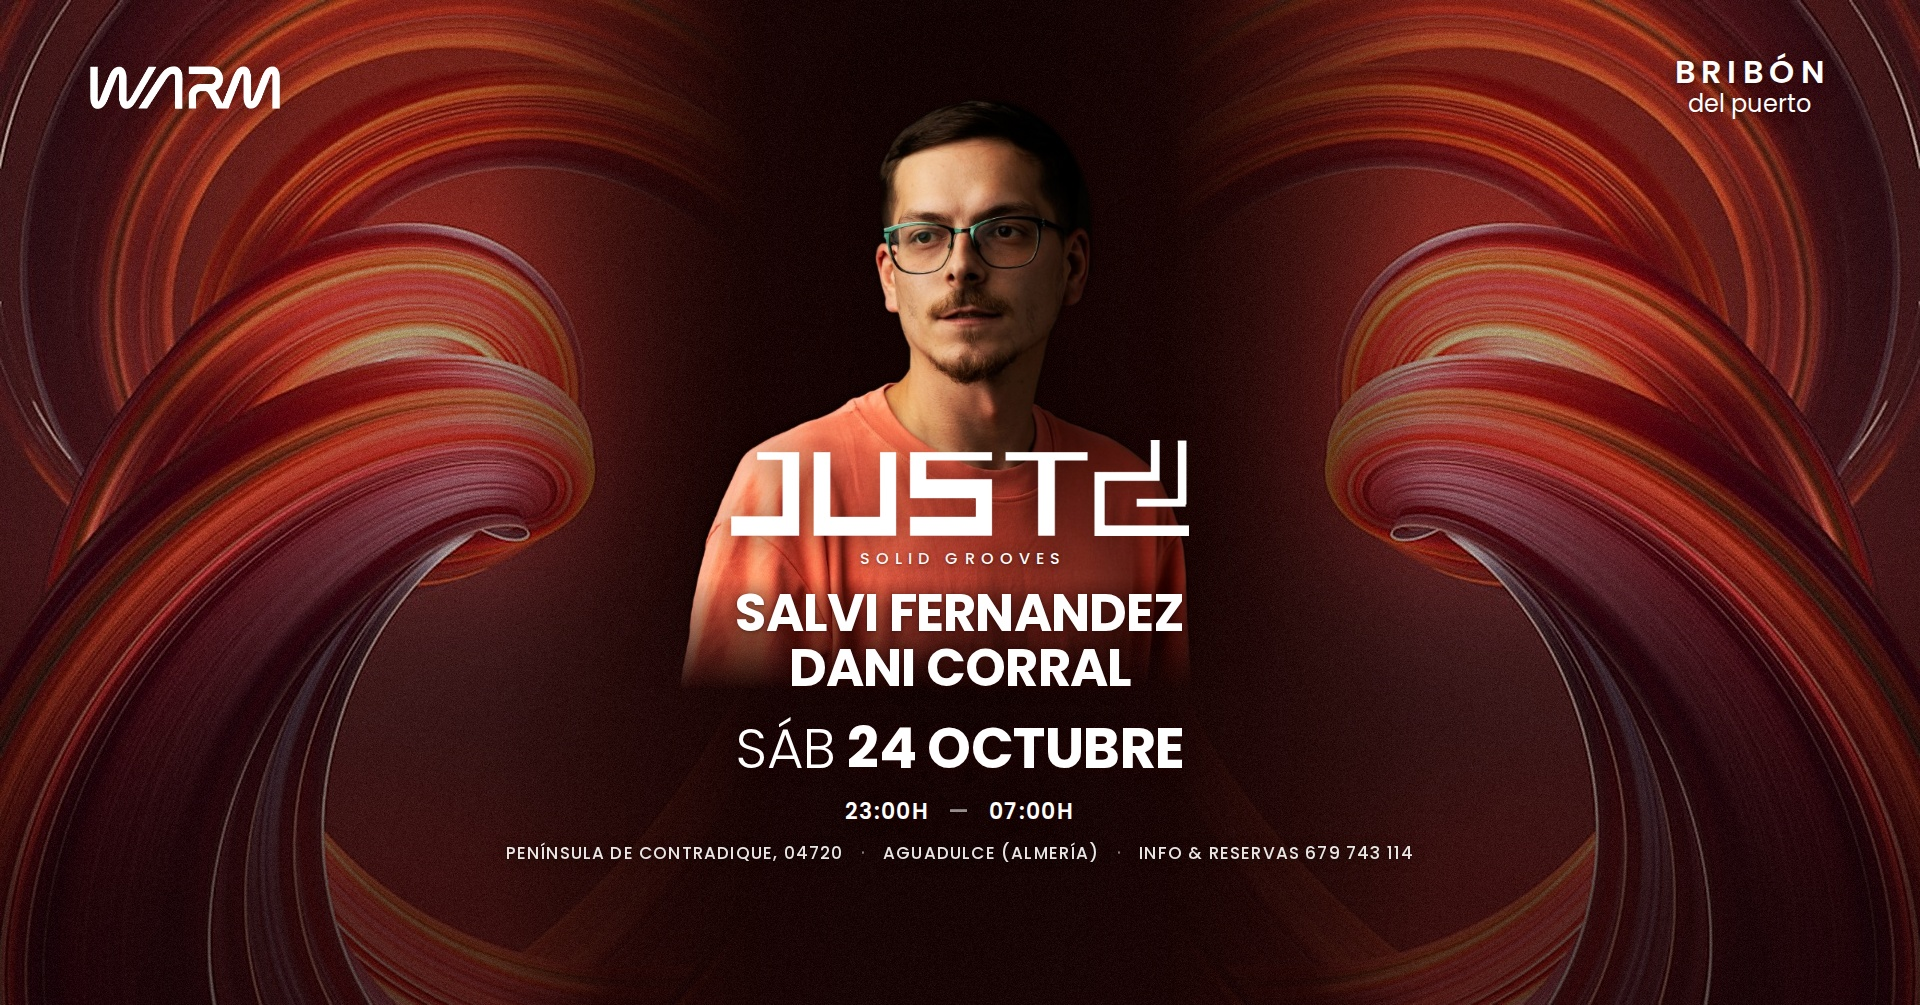
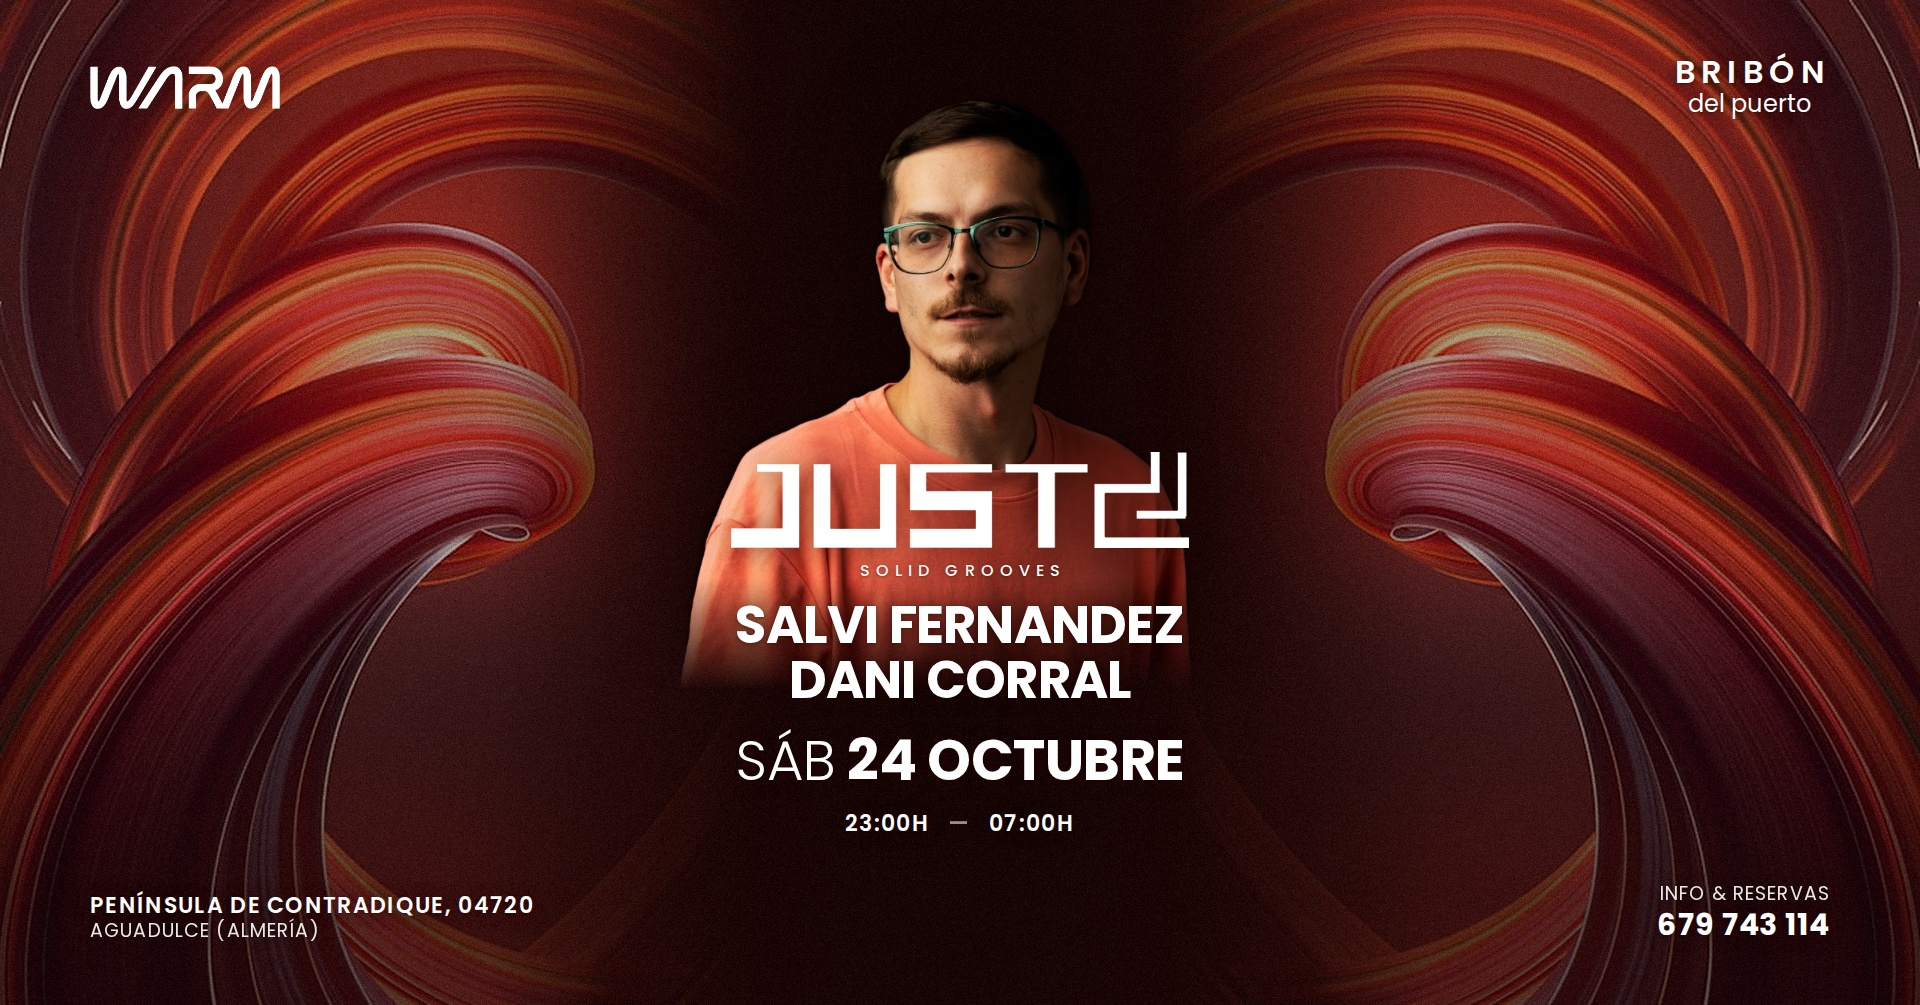
WARM 24.10 — coperte: adresa stânga jos, rezervări dreapta jos
Claude-Session: https://claude.ai/code/session_01PsYJ7xTqRMzxVLnVuQx1Lt

diff --git a/warm_24oct/cover_851_center.html b/warm_24oct/cover_851_center.html
@@ -12,7 +12,7 @@ img.sh{filter:drop-shadow(0 1px 7px rgba(40,5,0,.5))}
 .tr b{display:block;font-weight:600;font-size:14px;letter-spacing:.2em;padding-left:.2em}
 .tr i{display:block;font-style:normal;font-weight:400;font-size:11px;text-transform:none;margin-top:2px}
 .tr small{display:block;font-weight:500;font-size:8px;letter-spacing:.14em;margin-top:6px;opacity:.9}
-.c{position:absolute;left:0;right:0;top:146px;display:flex;flex-direction:column;align-items:center;text-align:center}
+.c{position:absolute;left:0;right:0;top:152px;display:flex;flex-direction:column;align-items:center;text-align:center}
 .j2{height:28px}
 .label{font-weight:500;font-size:7px;letter-spacing:.38em;padding-left:.38em;margin:4px 0 5px}
 .n{font-weight:700;font-size:16px;line-height:1.05;letter-spacing:-.01em}
@@ -21,6 +21,11 @@ img.sh{filter:drop-shadow(0 1px 7px rgba(40,5,0,.5))}
 .date em{font-style:normal;font-weight:600;font-size:11px;letter-spacing:.06em;opacity:.95;margin-left:9px;vertical-align:2px}
 .l2{font-weight:500;font-size:8.5px;letter-spacing:.07em;margin-top:7px;opacity:.92}
 .l2 em{font-style:normal;opacity:.55;margin:0 6px}
+.bl,.br{position:absolute;bottom:24px;line-height:1.25;text-shadow:0 1px 8px rgba(40,5,0,.65)}
+.bl{left:40px;text-align:left}.br{right:40px;text-align:right}
+.bl b,.br b{display:block;font-weight:600;font-size:10px;letter-spacing:.06em}
+.bl span,.br span{display:block;font-weight:400;font-size:9px;letter-spacing:.06em;opacity:.9}
+.br b{font-size:13px;font-weight:700;letter-spacing:.03em}
 </style></head><body>
 <div class="photo"></div>
 <img class="warm sh" src="logos/warm_white.png">
@@ -30,6 +35,7 @@ img.sh{filter:drop-shadow(0 1px 7px rgba(40,5,0,.5))}
  <div class="label">Solid Grooves</div>
  <div class="n">Salvi Fernandez</div><div class="n">Dani Corral</div>
  <div class="date"><span>SÁB</span> 24 OCTUBRE<em>23:00H — 07:00H</em></div>
- <div class="l2">Península de Contradique, 04720 <em>·</em> Aguadulce (Almería) <em>·</em> Info &amp; Reservas 679 743 114</div>
 </div>
+<div class="bl"><b>PENÍNSULA DE CONTRADIQUE, 04720</b><span>AGUADULCE (ALMERÍA)</span></div>
+<div class="br"><span>INFO &amp; RESERVAS</span><b>679 743 114</b></div>
 </body></html>

diff --git a/warm_24oct/cover_center.html b/warm_24oct/cover_center.html
@@ -11,7 +11,7 @@ img.sh{filter:drop-shadow(0 2px 14px rgba(40,5,0,.5))}
 .tr{position:absolute;top:56px;right:90px;text-align:center;line-height:1}
 .tr b{display:block;font-weight:600;font-size:32px;letter-spacing:.2em;padding-left:.2em}
 .tr i{display:block;font-style:normal;font-weight:400;font-size:24px;text-transform:none;margin-top:4px}
-.c{position:absolute;left:0;right:0;top:440px;display:flex;flex-direction:column;align-items:center;text-align:center}
+.c{position:absolute;left:0;right:0;top:452px;display:flex;flex-direction:column;align-items:center;text-align:center}
 .j2{height:96px}
 .label{font-weight:500;font-size:16px;letter-spacing:.38em;padding-left:.38em;margin:10px 0 14px}
 .n{font-weight:700;font-size:52px;line-height:1.06;letter-spacing:-.015em}
@@ -20,6 +20,11 @@ img.sh{filter:drop-shadow(0 2px 14px rgba(40,5,0,.5))}
 .l1{font-weight:600;font-size:22px;letter-spacing:.06em;margin-top:18px}
 .l2{font-weight:500;font-size:17px;letter-spacing:.07em;margin-top:12px;opacity:.9}
 .l1 em,.l2 em{font-style:normal;opacity:.55;margin:0 12px}
+.bl,.br{position:absolute;bottom:62px;line-height:1.25;text-shadow:0 2px 16px rgba(40,5,0,.6),0 1px 3px rgba(40,5,0,.4)}
+.bl{left:90px;text-align:left}.br{right:90px;text-align:right}
+.bl b,.br b{display:block;font-weight:600;font-size:22px;letter-spacing:.06em}
+.bl span,.br span{display:block;font-weight:400;font-size:19px;letter-spacing:.06em;opacity:.9}
+.br b{font-size:30px;font-weight:700;letter-spacing:.03em}
 </style></head><body>
 <div class="photo"></div>
 <img class="warm sh" src="logos/warm_white.png">
@@ -30,6 +35,7 @@ img.sh{filter:drop-shadow(0 2px 14px rgba(40,5,0,.5))}
  <div class="n">Salvi Fernandez</div><div class="n">Dani Corral</div>
  <div class="date"><span>SÁB</span> 24 OCTUBRE</div>
  <div class="l1">23:00H <em>—</em> 07:00H</div>
- <div class="l2">Península de Contradique, 04720 <em>·</em> Aguadulce (Almería) <em>·</em> Info &amp; Reservas 679 743 114</div>
 </div>
+<div class="bl"><b>PENÍNSULA DE CONTRADIQUE, 04720</b><span>AGUADULCE (ALMERÍA)</span></div>
+<div class="br"><span>INFO &amp; RESERVAS</span><b>679 743 114</b></div>
 </body></html>
